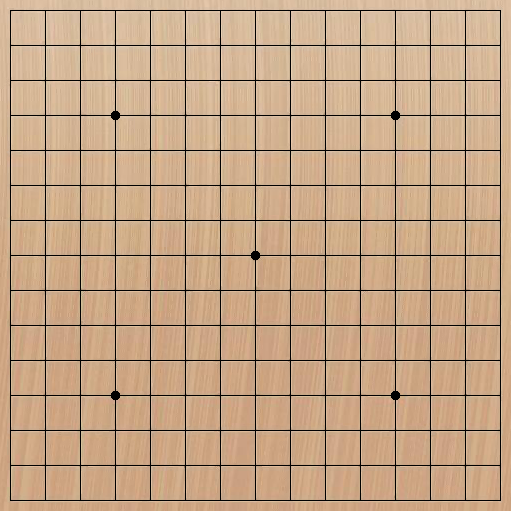
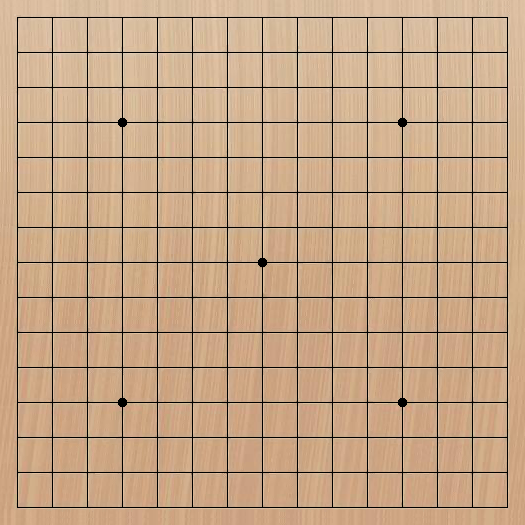
update board.html

Changed region(s): [[0.0, 0.0294, 0.998, 0.998]]

diff --git a/gomoku/board.html b/gomoku/board.html
@@ -5,27 +5,44 @@
 </head>
 <body>
   <form>
-    <img src="board.png" id="imageBoard" width="500" height="500"
-         style="left: 50px; top: 50px; z-index: 1;
+    <img src="board.png" id="imageBoard" width="525" height="525"
+         style="left: 20px; top: 20px; z-index: 1;
                 position: absolute;">
-    <canvas id="canvasBoard" width="500" height="500"
-            style="left: 50px; top: 50px; z-index: 2;
+    <canvas id="canvasBoard" width="525" height="525"
+            style="left: 20px; top: 20px; z-index: 2;
                    position: absolute;"></canvas>
 
   </form>
 </body>
 <script type="text/javascript">
+  var mousePosX = -1, mousePosY = -1;
+
   document.getElementById('canvasBoard').onmousemove = function(event) {
-    draw(event);
+    var x = Math.min(Math.floor((event.clientX - 20) / 35), 14),
+        y = Math.min(Math.floor((event.clientY - 20) / 35), 14);
+    if (mousePosX != x || mousePosY != y) {
+      mousePosX = x; mousePosY = y;
+      draw(this, x, y);
+    }
   }
 
-  function draw(event) {
-    var canvas = document.getElementById('canvasBoard');
+  document.getElementById('canvasBoard').onmouseout = function() {
+    mousePosX = -1; mousePosY = -1;
+    var context = this.getContext("2d");
+    context.clearRect(0, 0, this.width, this.height);
+  }
+
+  function draw(canvas, x, y) {
     if (canvas.getContext) {
       var context = canvas.getContext("2d");
-      context.clearRect(0, 0, canvas.width, canvas.height);
-      context.fillStyle = "rgb(255, 0, 0)";
-      context.fillRect(event.clientX - 50 - 10, event.clientY - 50 - 10, 20, 20);
+
+      var image = new Image();
+
+      image.onload = function() {
+        context.clearRect(0, 0, canvas.width, canvas.height);
+        context.drawImage(image, x * 35 + 4, y * 35 + 4, 27, 27);
+      }
+      image.src = "chess_black_transparent.png";
     }
   }
 </script>
